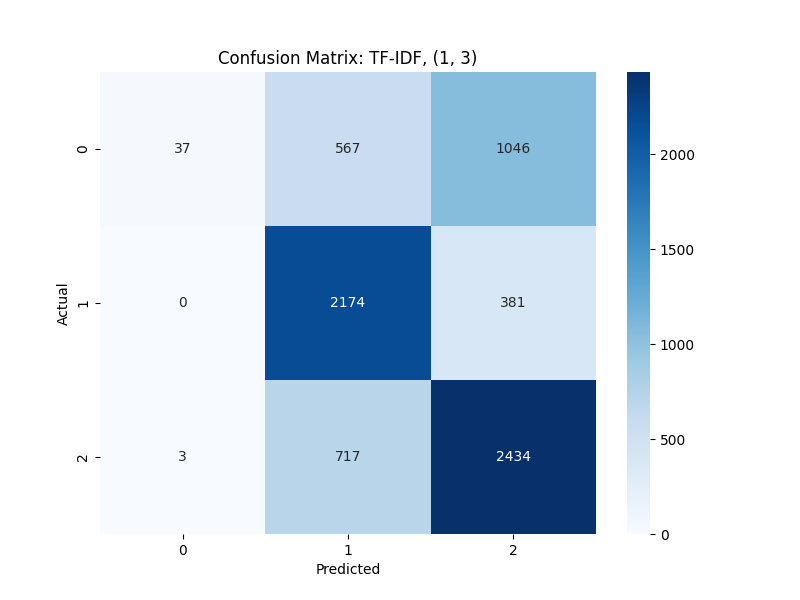
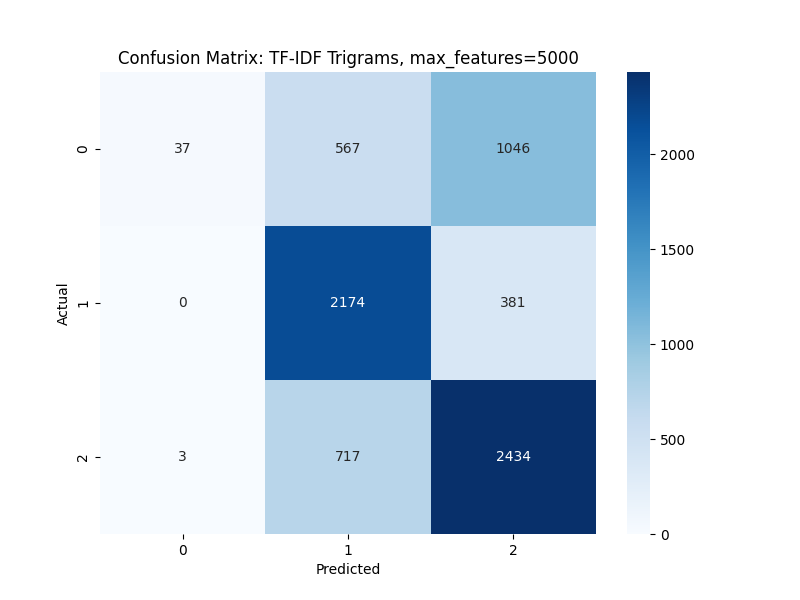
exp 3: tfid -(1,3) done

Changed region(s): [[0.1562, 0.09, 0.7188, 0.12]]

diff --git a/notebooks/experiment_3-tfid-(1,3).py b/notebooks/experiment_3-tfid-(1,3).py
@@ -1,0 +1,101 @@
+#%%
+import mlflow
+import pandas as pd
+import dagshub
+import matplotlib.pyplot as plt
+import seaborn as sns
+
+from pathlib import Path
+from sklearn.feature_extraction.text import CountVectorizer
+from sklearn.ensemble import RandomForestClassifier
+from sklearn.metrics import accuracy_score, classification_report, confusion_matrix
+from sklearn.model_selection import train_test_split
+from sklearn.feature_extraction.text import TfidfVectorizer
+
+
+import dagshub
+
+dagshub.init(repo_owner='manikantmnnit', repo_name='youtube-comments-sentiment-analysis', mlflow=True)
+
+# log the model
+
+# set the mlflow tracking server
+mlflow.set_tracking_uri("https://dagshub.com/manikantmnnit/youtube-comments-sentiment-analysis.mlflow")
+
+# set experiment name
+mlflow.set_experiment("EXp -3:RF with TFIDF (1,3)")
+
+# Load the data
+root_path=Path(__file__).parent.parent
+df = pd.read_csv(root_path/'data'/'processed'/'processed_data.csv')
+# %%
+def run_experiment_tfidf_max_features(max_features):
+    ngram_range = (1, 3)  # Trigram setting
+
+    # Step 2: Vectorization using TF-IDF with varying max_features
+    vectorizer = TfidfVectorizer(ngram_range=ngram_range, max_features=max_features)
+
+    X_train, X_test, y_train, y_test = train_test_split(df['clean_comment'], df['category'], test_size=0.2, random_state=42, stratify=df['category'])
+
+    X_train = vectorizer.fit_transform(X_train)
+    X_test = vectorizer.transform(X_test)
+
+    # Step 4: Define and train a Random Forest model
+    with mlflow.start_run() as run:
+        # Set tags for the experiment and run
+        mlflow.set_tag("mlflow.runName", f"TFIDF_Trigrams_max_features_{max_features}")
+        mlflow.set_tag("experiment_type", "feature_engineering")
+        mlflow.set_tag("model_type", "RandomForestClassifier")
+
+        # Add a description
+        mlflow.set_tag("description", f"RandomForest with TF-IDF Trigrams, max_features={max_features}")
+
+        # Log vectorizer parameters
+        mlflow.log_param("vectorizer_type", "TF-IDF")
+        mlflow.log_param("ngram_range", ngram_range)
+        mlflow.log_param("vectorizer_max_features", max_features)
+
+        # Log Random Forest parameters
+        n_estimators = 200
+        max_depth = 15
+
+        mlflow.log_param("n_estimators", n_estimators)
+        mlflow.log_param("max_depth", max_depth)
+
+        # Initialize and train the model
+        model = RandomForestClassifier(n_estimators=n_estimators, max_depth=max_depth, random_state=42)
+        model.fit(X_train, y_train)
+
+        # Step 5: Make predictions and log metrics
+        y_pred = model.predict(X_test)
+
+        # Log accuracy
+        accuracy = accuracy_score(y_test, y_pred)
+        mlflow.log_metric("accuracy", accuracy)
+
+        # Log classification report
+        classification_rep = classification_report(y_test, y_pred, output_dict=True)
+        for label, metrics in classification_rep.items():
+            if isinstance(metrics, dict):
+                for metric, value in metrics.items():
+                    mlflow.log_metric(f"{label}_{metric}", value)
+
+        # Log confusion matrix
+        conf_matrix = confusion_matrix(y_test, y_pred)
+        plt.figure(figsize=(8, 6))
+        sns.heatmap(conf_matrix, annot=True, fmt="d", cmap="Blues")
+        plt.xlabel("Predicted")
+        plt.ylabel("Actual")
+        plt.title(f"Confusion Matrix: TF-IDF Trigrams, max_features={max_features}")
+        plt.savefig("confusion_matrix.png")
+        mlflow.log_artifact("confusion_matrix.png")
+        plt.close()
+
+        # Log the model
+        mlflow.sklearn.log_model(model, f"random_forest_model_tfidf_trigrams_{max_features}")
+
+# Step 6: Test various max_features values
+max_features_values = [500,1000, 1500,2000, 2500,3000,3500, 4000, 4500,5000]
+
+for max_features in max_features_values:
+    run_experiment_tfidf_max_features(max_features)
